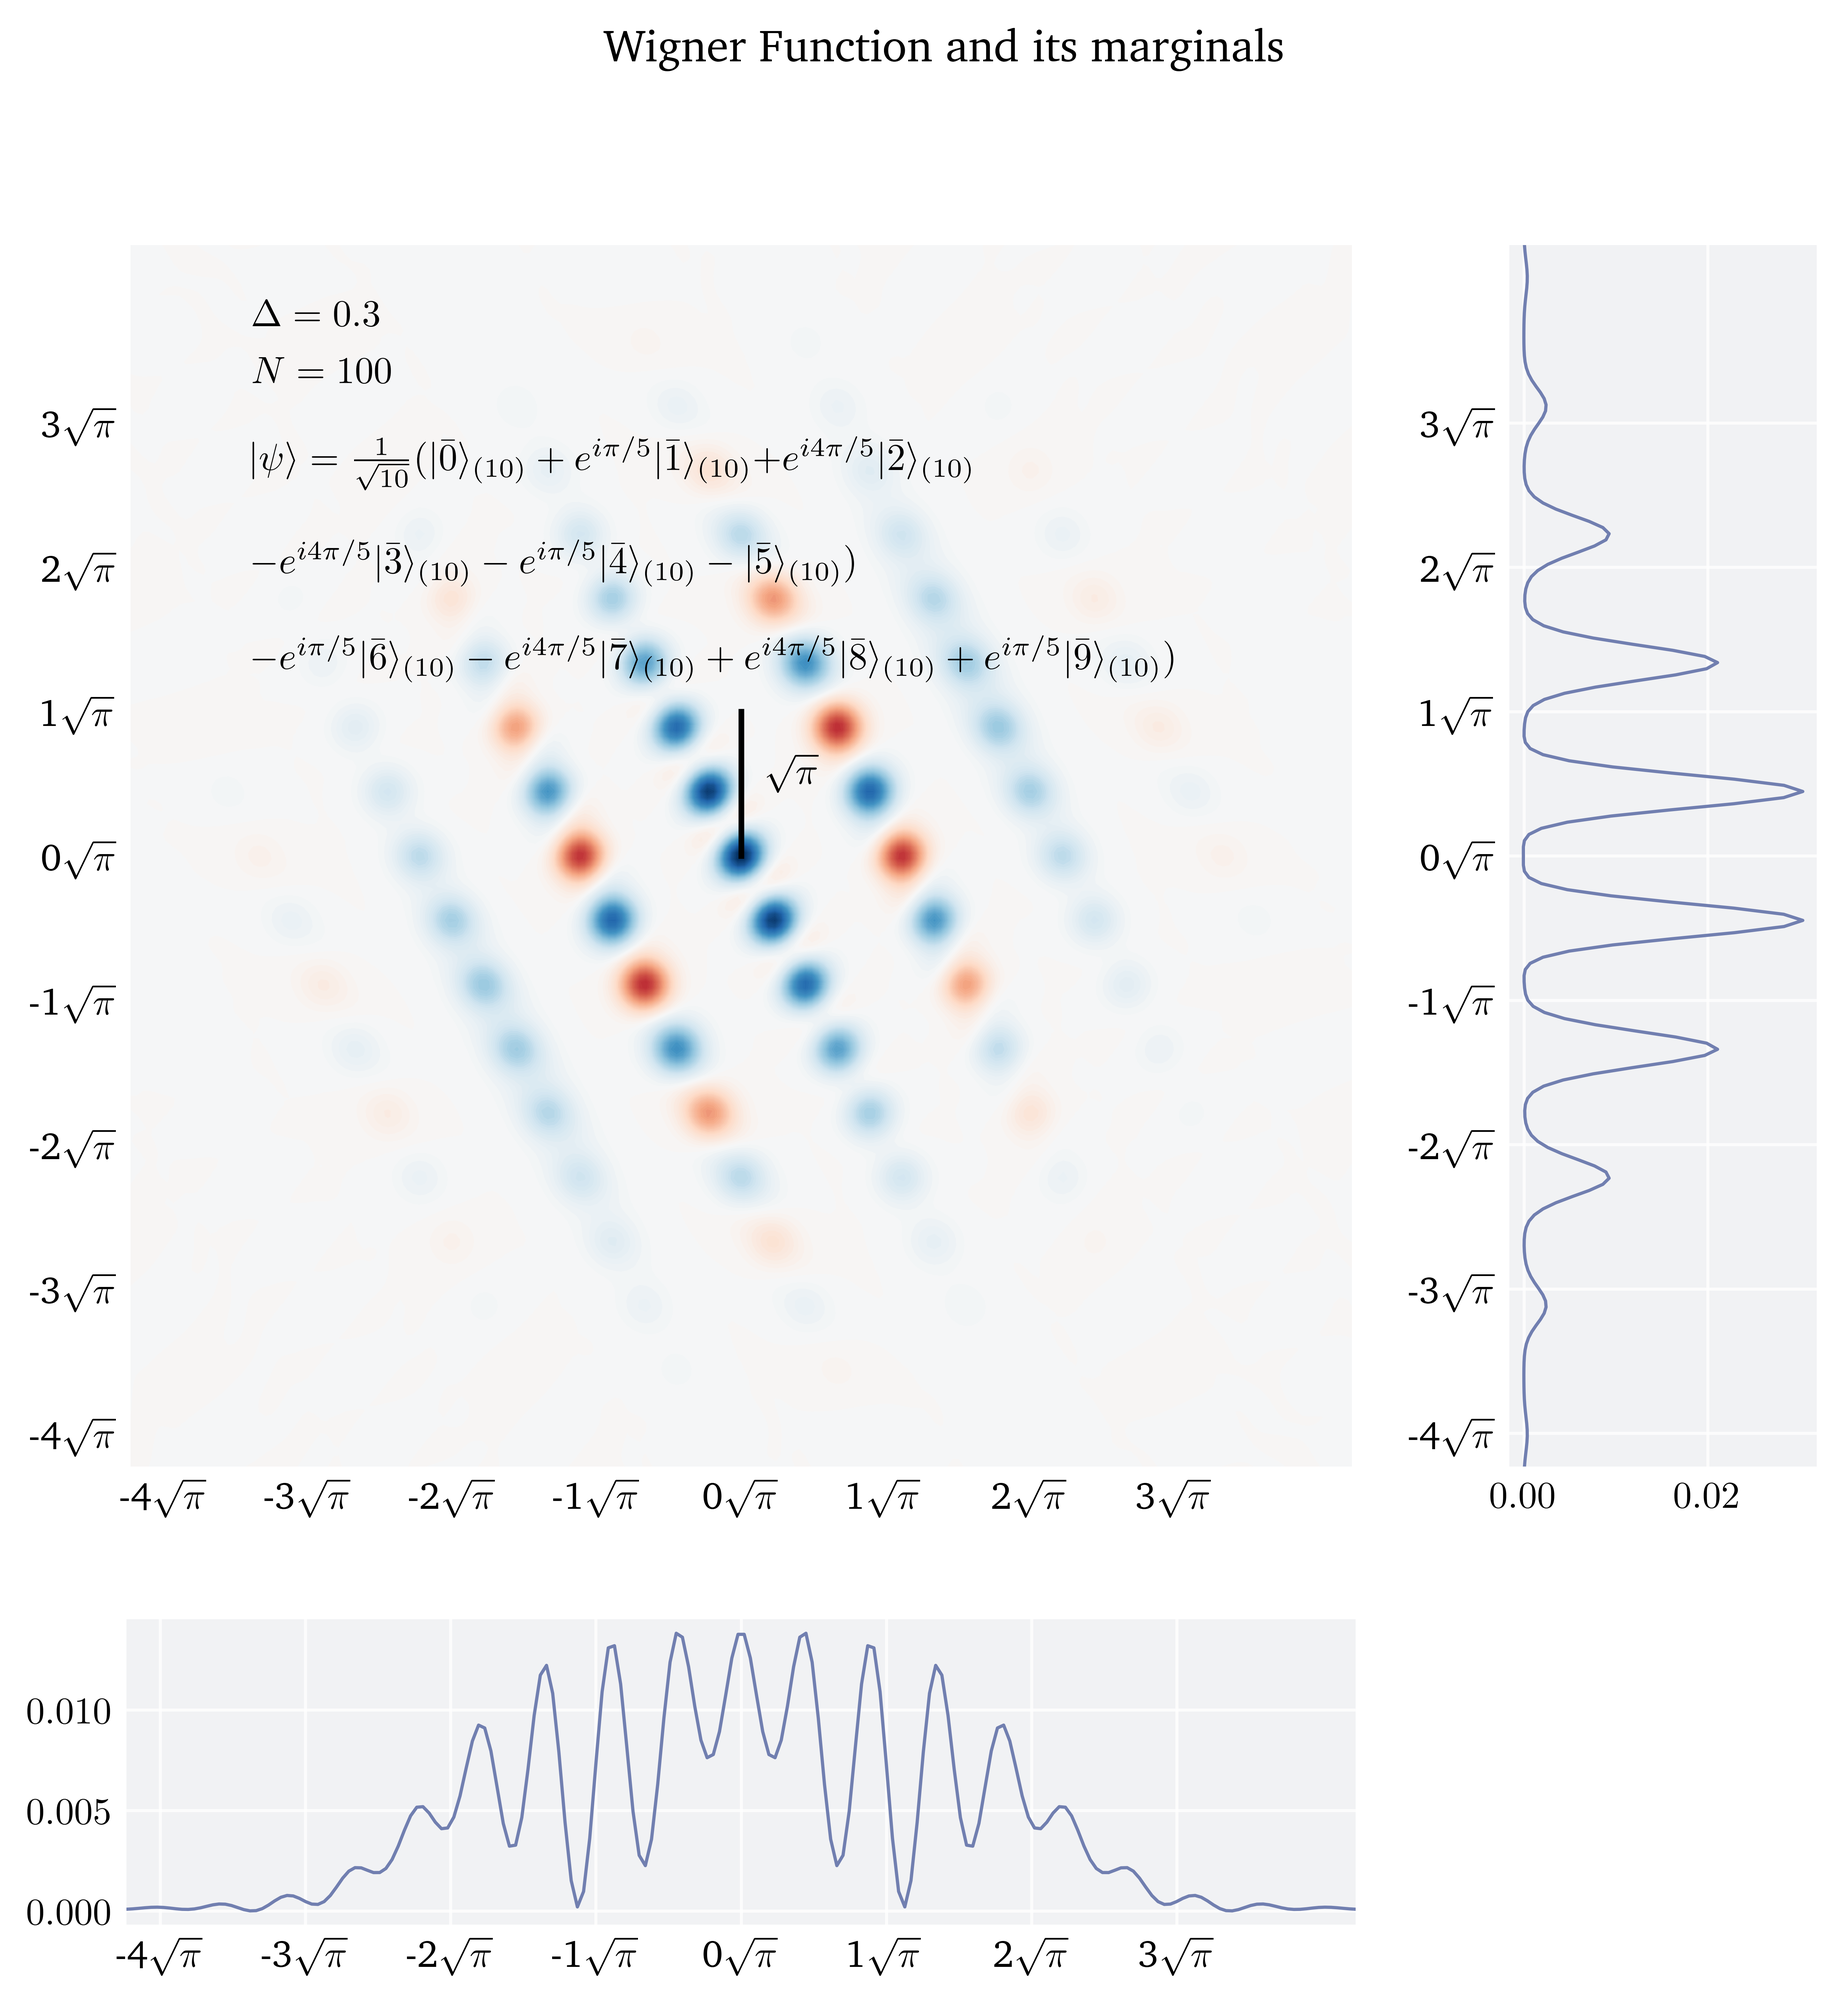
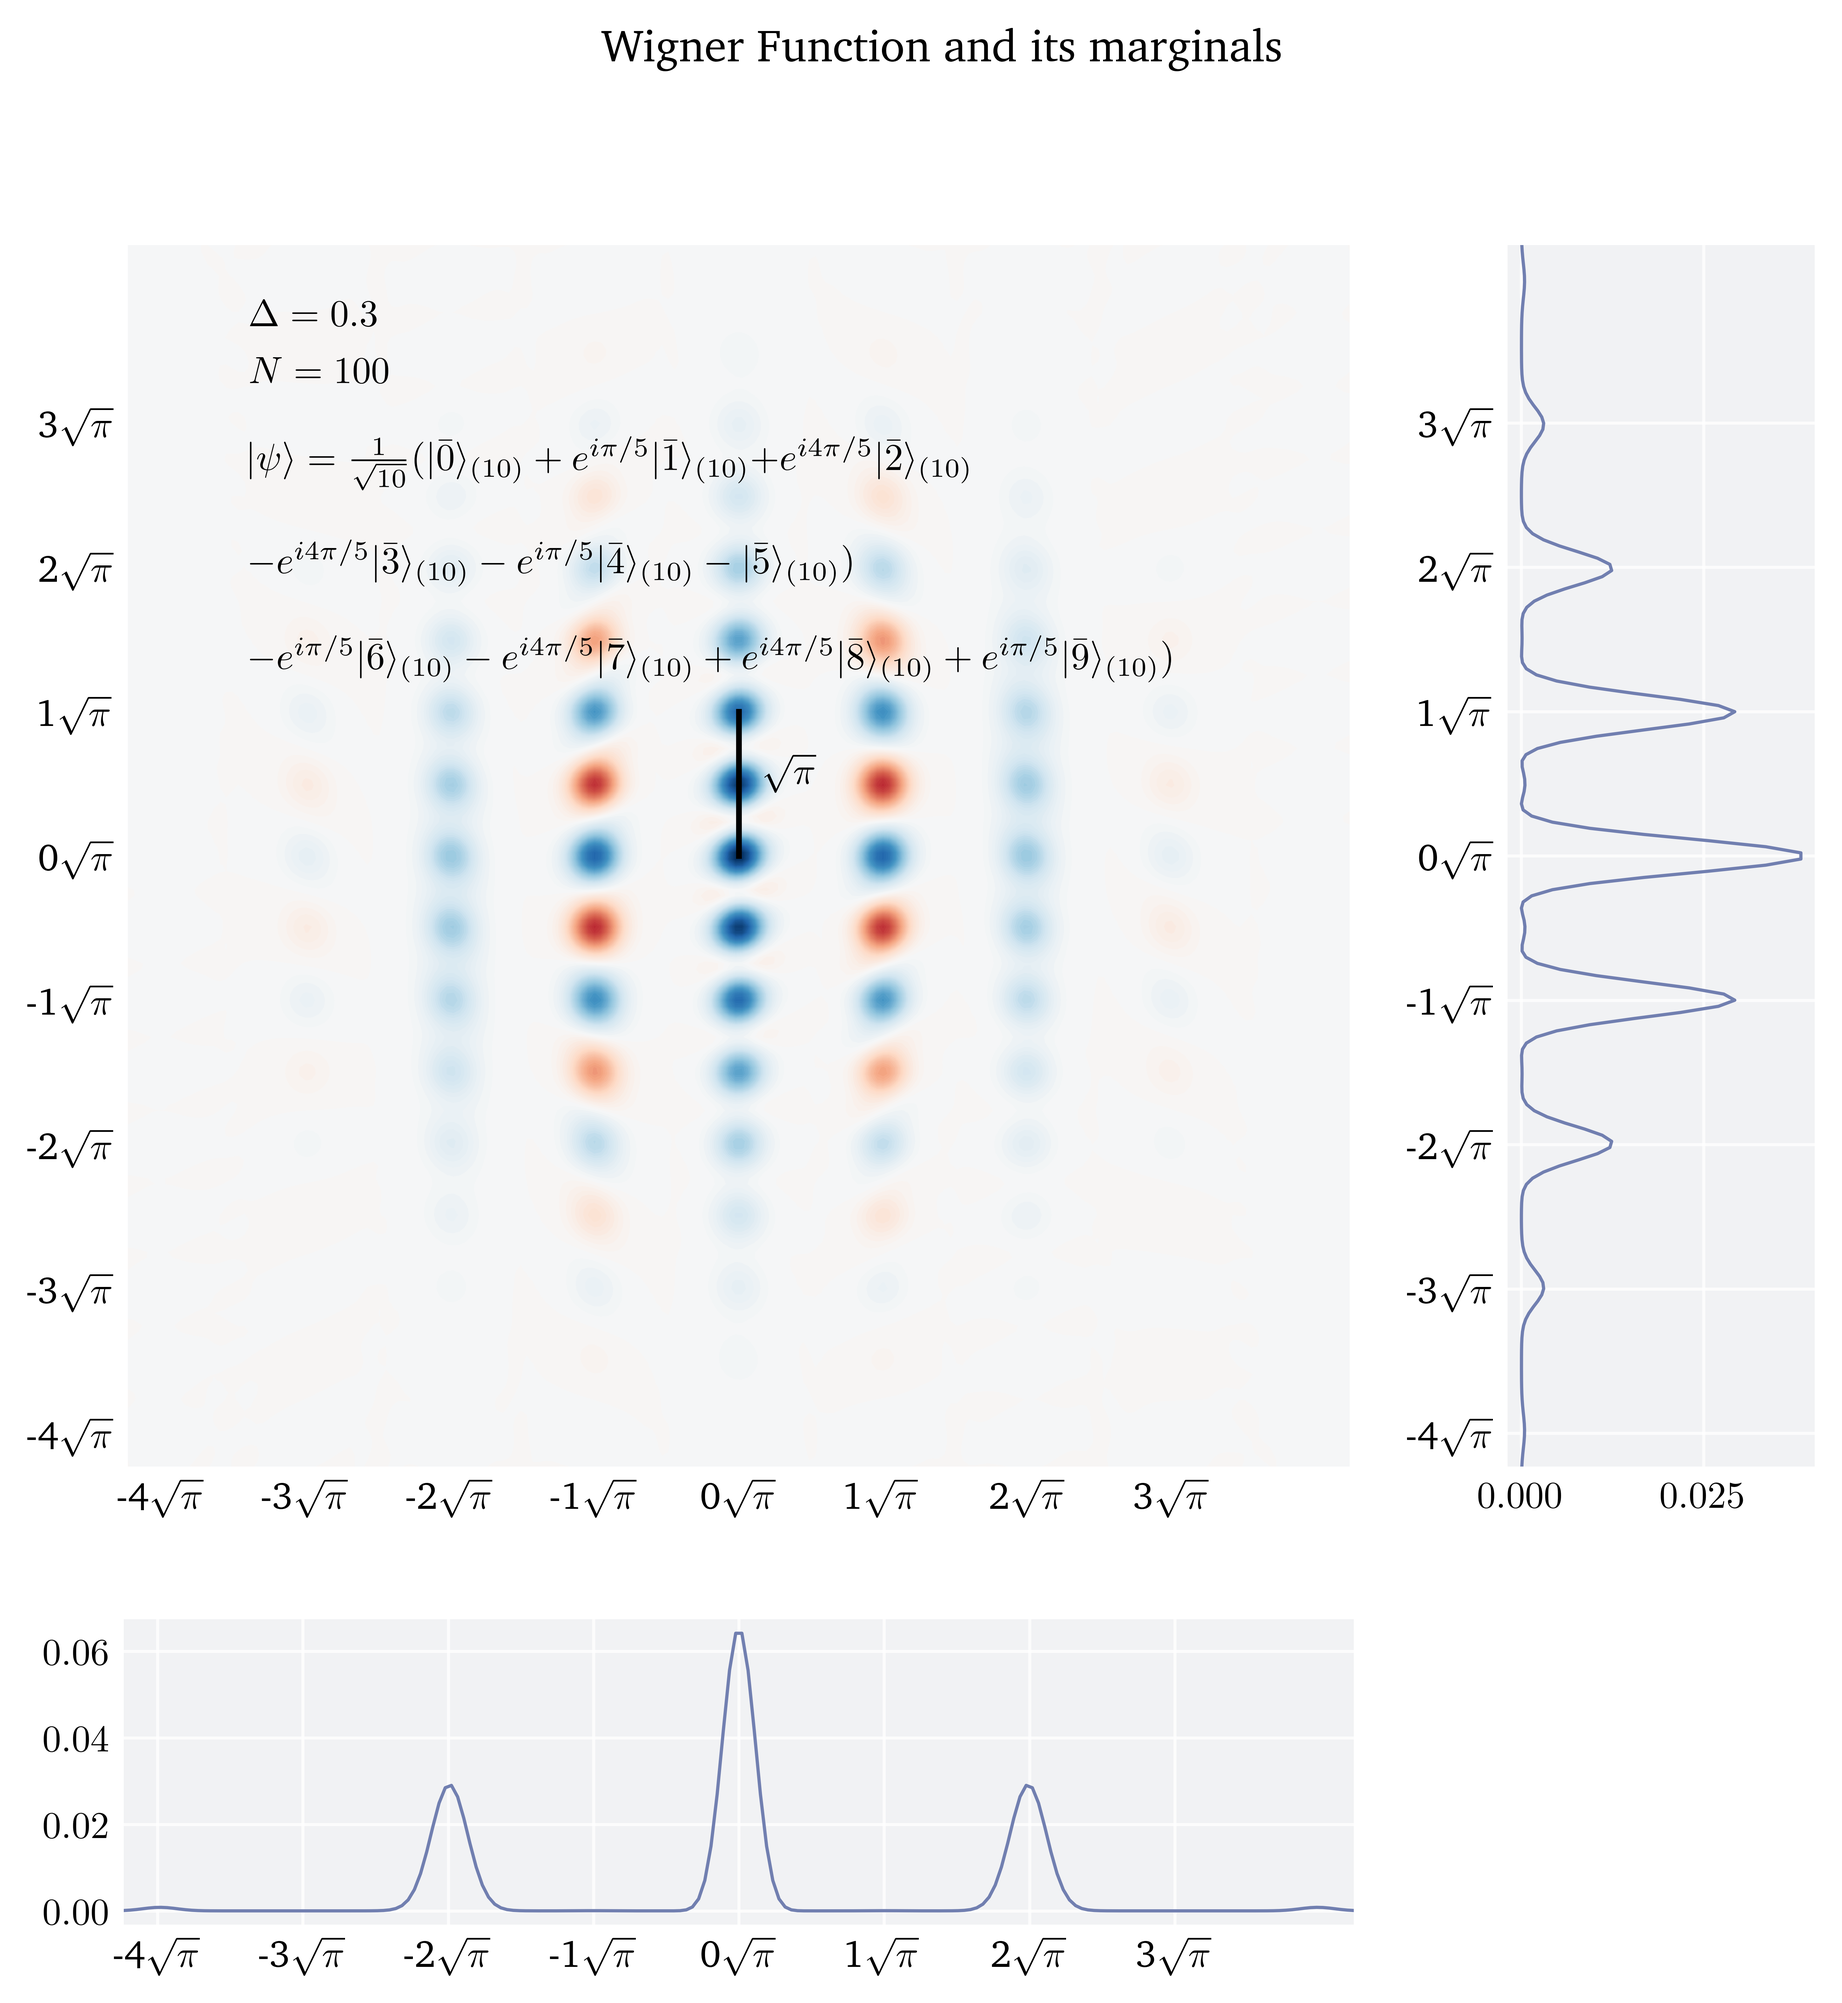
spec

diff --git a/stage_baptiste/projects/Other_GKPs/GKP_8/GKP_8.py b/stage_baptiste/projects/Other_GKPs/GKP_8/GKP_8.py
@@ -18,7 +18,7 @@ from matplotlib.transforms import Affine2D
 import mpl_toolkits.axisartist.floating_axes as floating_axes
 
 graph_wigner = False
-second_part = False
+second_part = True
 d = 8
 m,n = 0,2
 j = 0
@@ -49,7 +49,7 @@ if psi.type == 'ket' or psi.type == 'bra':
     rho = ket2dm(psi)
 else:
     rho = psi
-# ----- Wigner function  ---------
+# ----- Wigner function, meshgrid rotation  ---------
 angle = 0  # anticlockwise rotation
 xvec = np.linspace(-7.5, 7.5, 200)
 W0 = _wigner_clenshaw(rho, xvec, xvec)  # no rotation
@@ -103,7 +103,7 @@ if graph_wigner:
 Author : Jeremie Boudreault
 Date: 11/05/2022
 
-Code that compares qubit and qudit d=8 GKPs.
+Code that compares qubit and qudit d=10 GKPs.
 """
 
 import numpy as np
@@ -149,8 +149,8 @@ if second_part:
         rho = ket2dm(psi)
     else:
         rho = psi
-    # ----- Wigner function  ---------
-    angle = np.arctan(1/2)  # anticlockwise rotation
+    # ----- Wigner function, meshgrid rotation  ---------
+    angle = 0  # anticlockwise rotation
     xvec = np.linspace(-7.5, 7.5, 200)
     W0 = _wigner_clenshaw(rho, xvec, xvec)  # no rotation
     rotW0 = rot_wigner_clenshaw(rho, xvec, xvec,rot=angle)  # with pi/4 rotation

diff --git a/stage_baptiste/projects/Other_GKPs/GKP_4/GKP_4.py b/stage_baptiste/projects/Other_GKPs/GKP_4/GKP_4.py
@@ -64,7 +64,7 @@ else:
     rho = psi
 
 
-# ----- Wigner function  ---------
+# ----- Wigner function, meshgrid rotation  ---------
 angle = 0  # anticlockwise graphic rotation
 xvec = np.linspace(-7.5, 7.5, 200)
 W0 = _wigner_clenshaw(rho, xvec, xvec)  # no rotation
